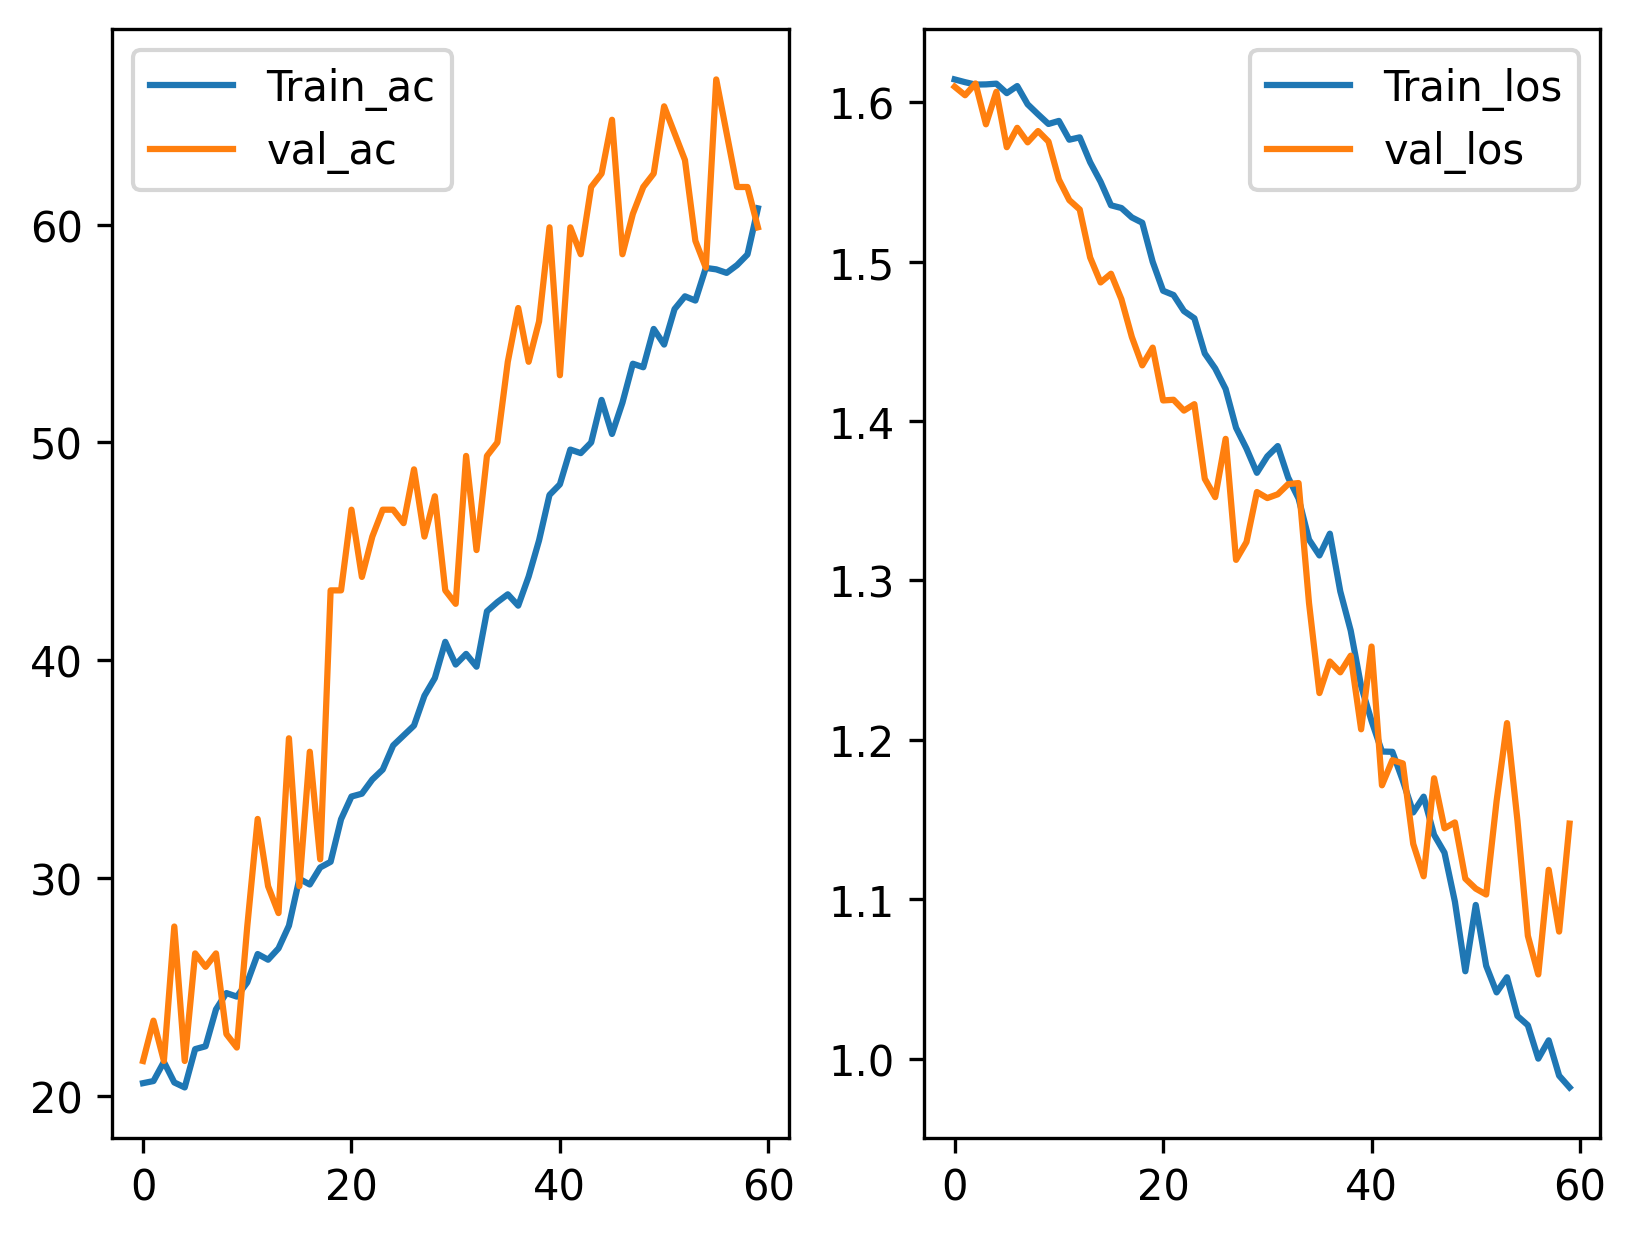
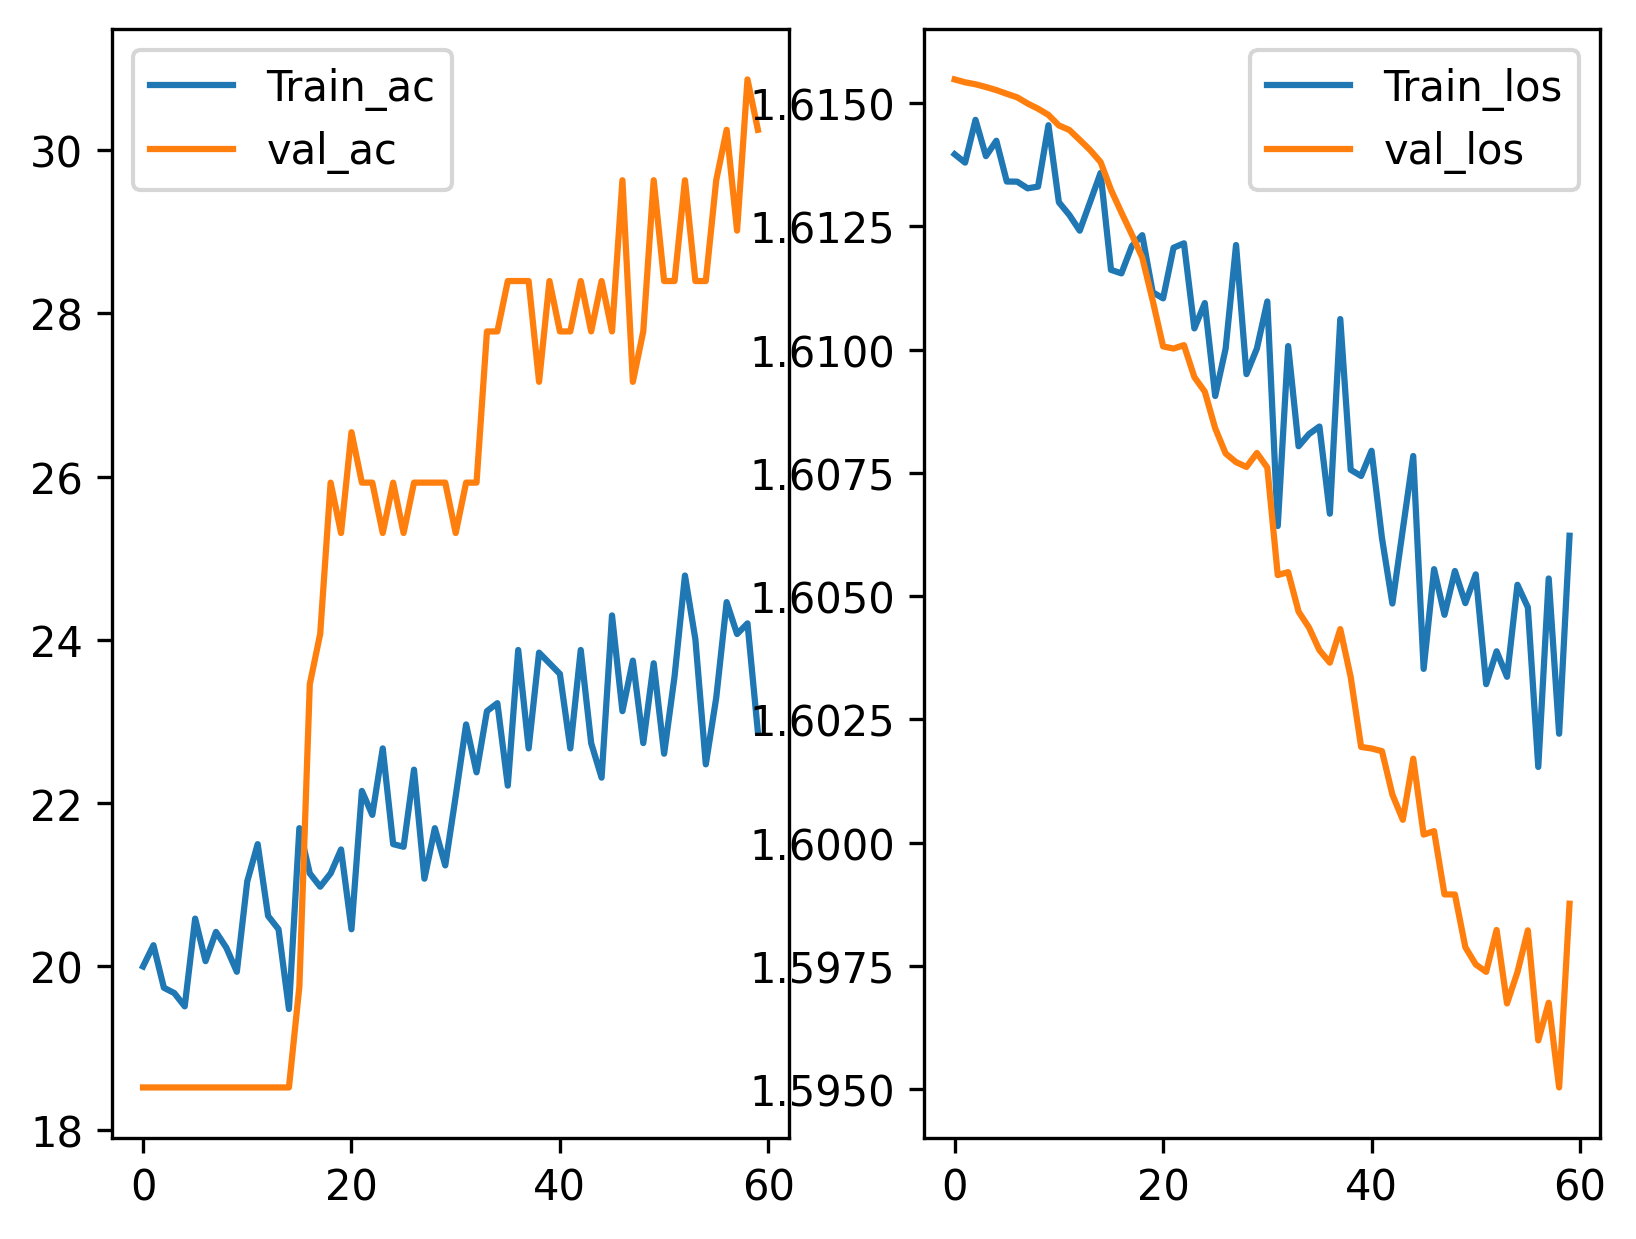
naming

diff --git a/Config/config_model3.py b/Config/config_model3.py
@@ -24,19 +24,19 @@ class Config:
     def _set_hyperparameters(self):
         """Define all hyperparameters."""
         self._batch_size = 128
-        self._learning_rate = 0.0005
+        self._learning_rate = 0.00001
         self._epochs = 60
         self._valdata_ratio = 0.05
         self._width_transform=64
         self._height_transform=64
-        self._dropout=0.55
+        self._dropout=0.7
         self._conv_Arch = [
         {"out_channels": 64, "kernel_size": 3, "stride": 1, "padding": 1, "maxpool": 0},
         {"out_channels": 128, "kernel_size": 3, "stride": 1, "padding": 1, "maxpool": 2},
         {"out_channels": 256, "kernel_size": 3, "stride": 1, "padding": 1, "maxpool": 2},
         {"out_channels": 512, "kernel_size": 3, "stride": 1, "padding": 1, "maxpool": 2},
-        {"out_channels": 512, "kernel_size": 3, "stride": 1, "padding": 1, "maxpool": 2},
-        {"out_channels": 512, "kernel_size": 3, "stride": 1, "padding": 1, "maxpool": 2},
+        {"out_channels": 512, "kernel_size": 3, "stride": 1, "padding": 1, "maxpool": 2}#,
+        #{"out_channels": 512, "kernel_size": 3, "stride": 1, "padding": 1, "maxpool": 2},
         ]
         self._fc__Arch = [ 512, 128,32]
         

diff --git a/models/Run_Model3.py b/models/Run_Model3.py
@@ -77,7 +77,7 @@ class ModelProcess:
 
         # Initialize model
         self._log.log("Initializing the model...")
-        model = CNNModel(self._input_chanels,self._num_classes,self._conv_layers_arch,self._fc__Arch,self._device,0.001,self._drop_out)
+        model = CNNModel(self._input_chanels,self._num_classes,self._conv_layers_arch,self._fc__Arch,self._device,0,self._drop_out)
         trainable_params = sum(p.numel() for p in model.parameters() if p.requires_grad)
         self._log.log(f"Model initialized with {trainable_params:,} trainable parameters.")
 
